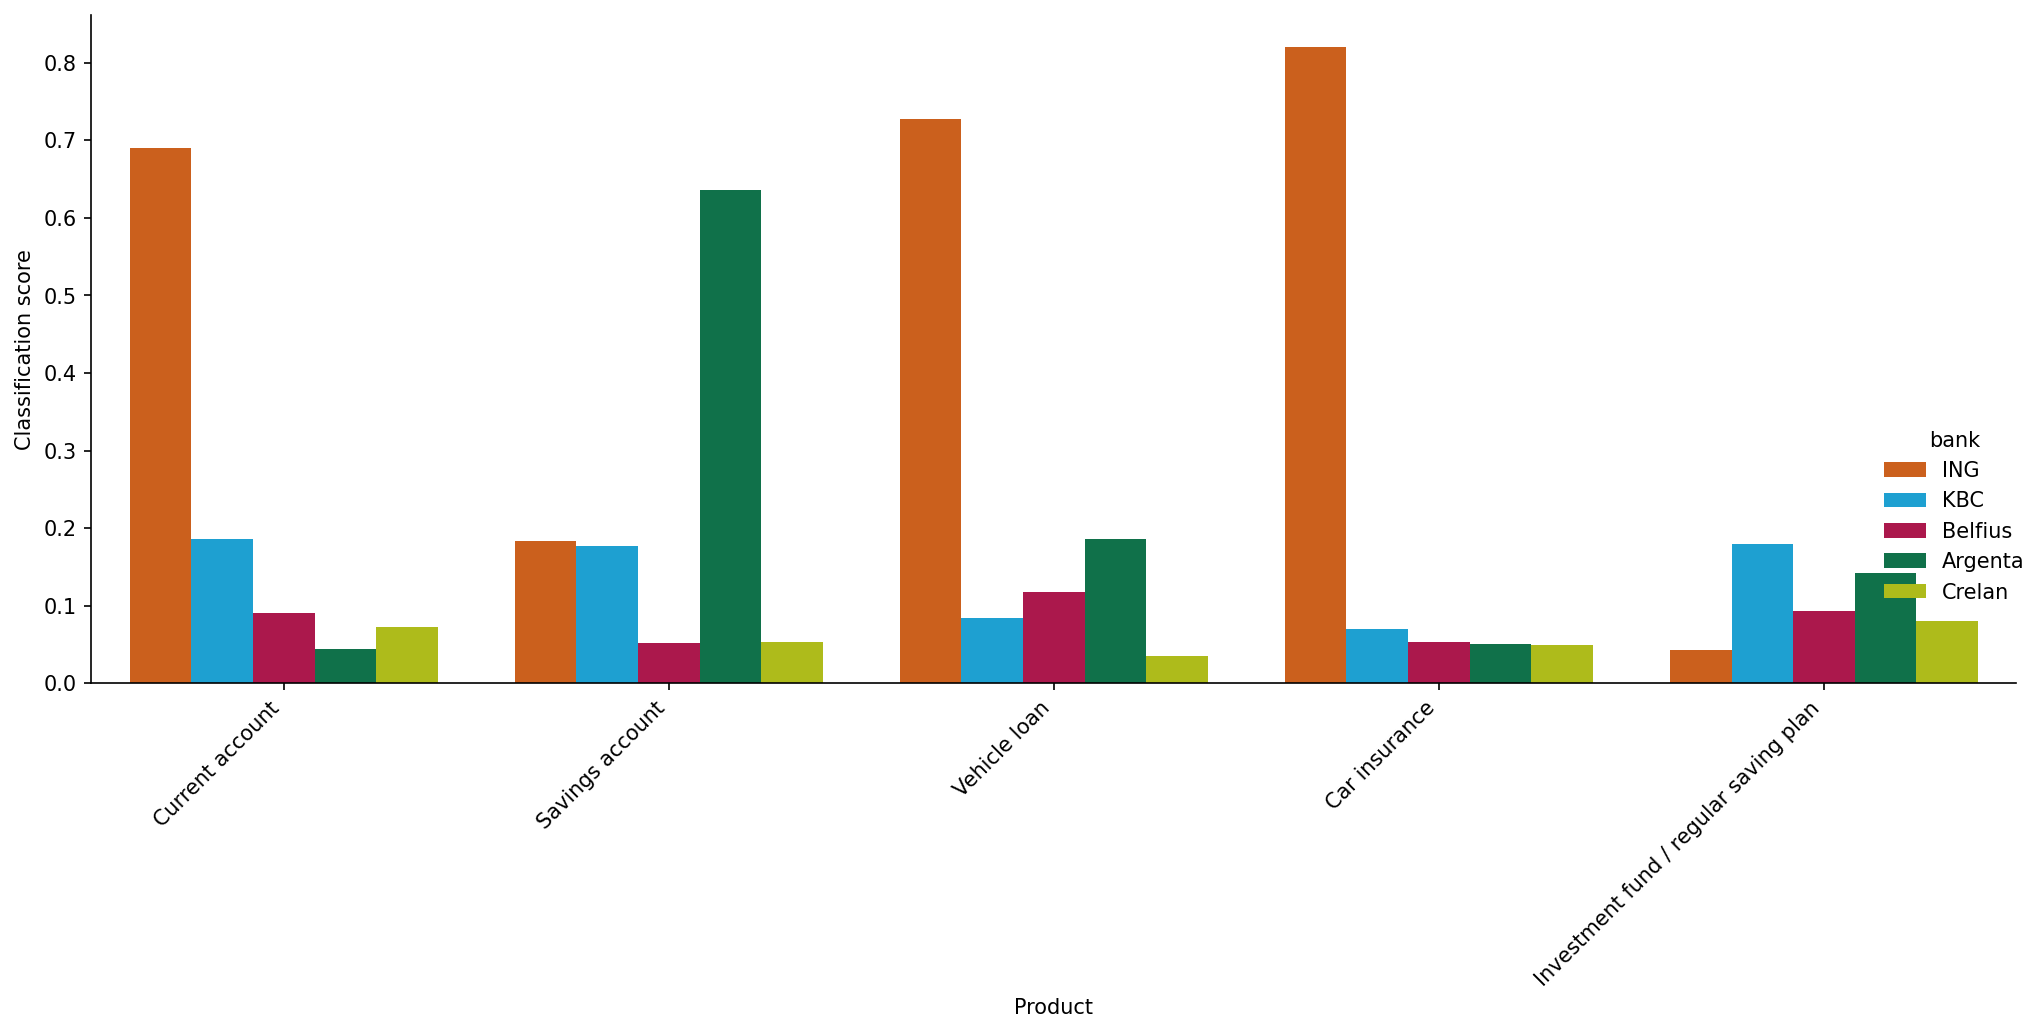
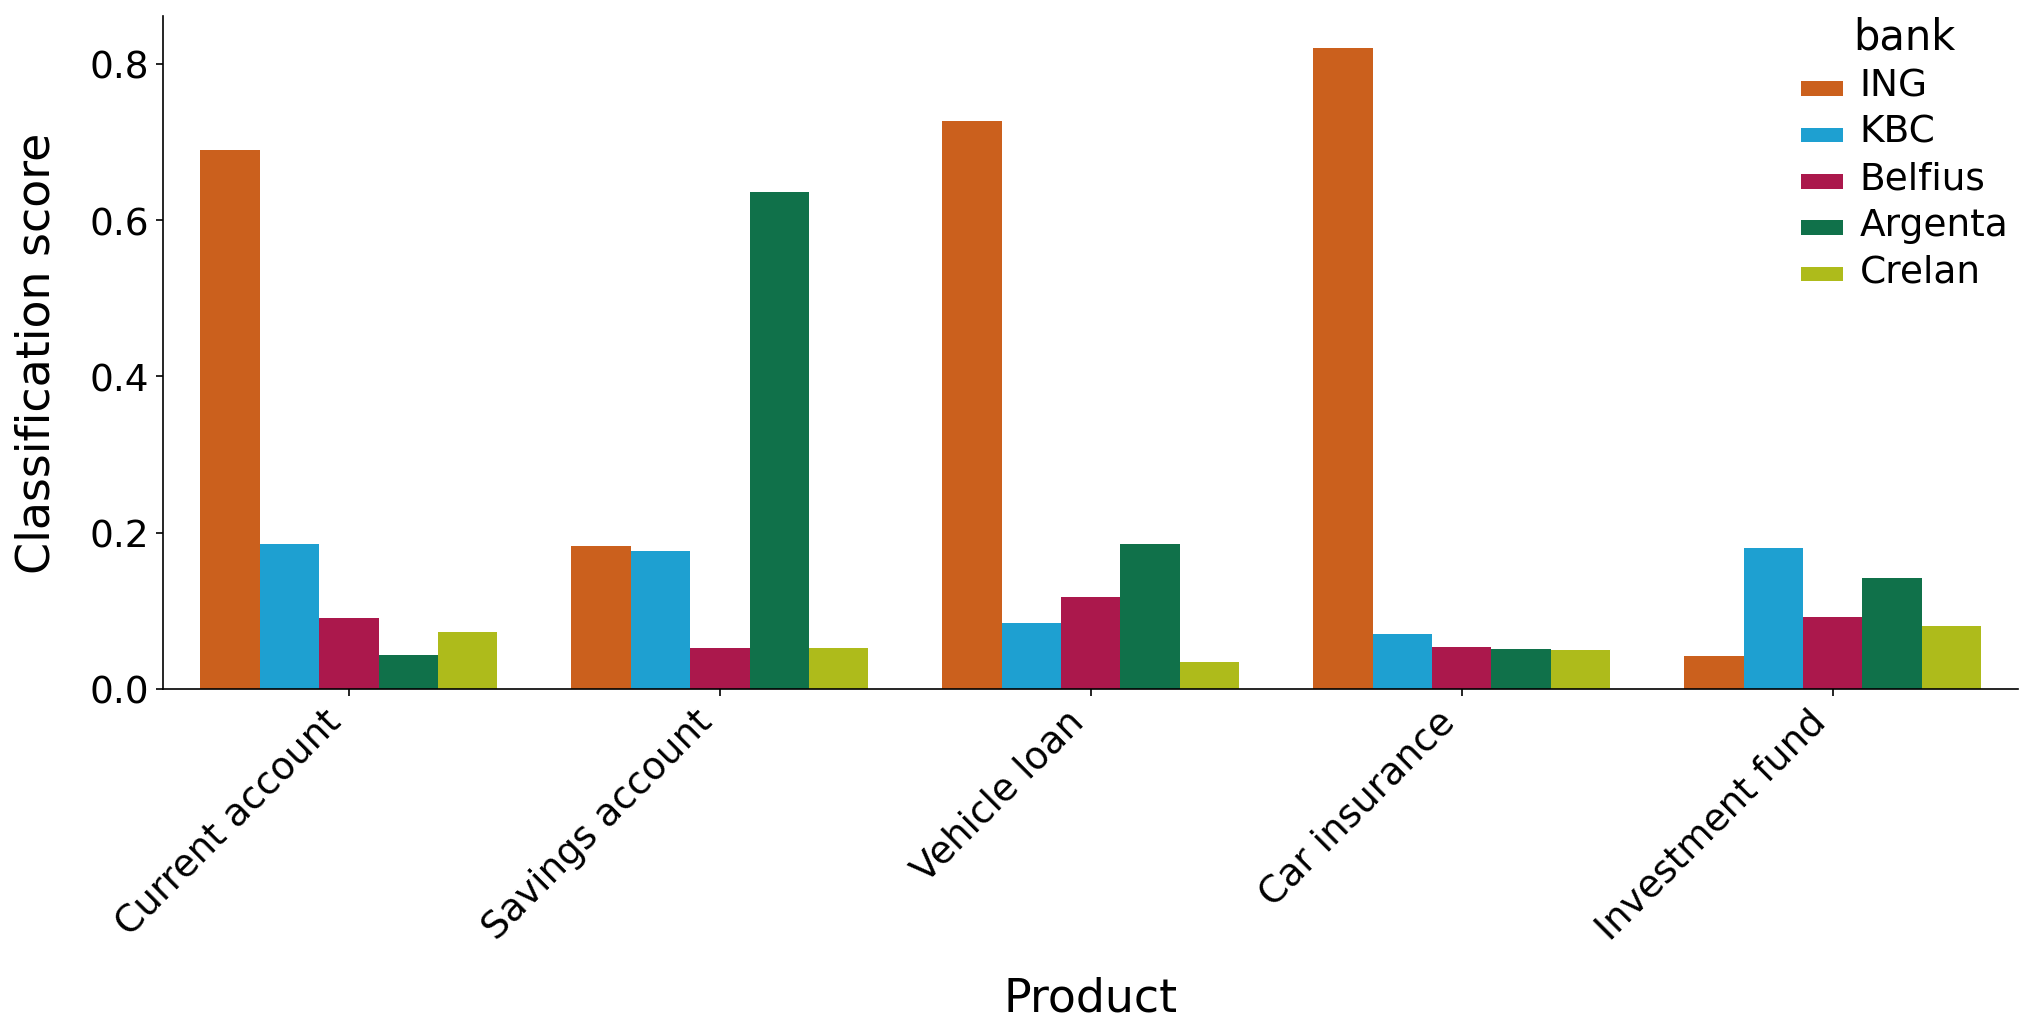
improve classification score plot

diff --git a/backend/app/categorize/zero-shot-classifier.py b/backend/app/categorize/zero-shot-classifier.py
@@ -404,6 +404,8 @@ def plot_categorize_score(
                 category = BANK_PRODUCT_CATEGORIES["en"][
                     language_categories.index(category)
                 ]
+            if category == "Investment fund / regular saving plan":
+                category = "Investment fund"
             records.append(
                 {
                     "product": category,
@@ -434,8 +436,19 @@ def plot_categorize_score(
         height=7,
         aspect=1.8,
     )
-    plot.set_axis_labels("Product", "Classification score")
-    plot.set_xticklabels(rotation=45, ha="right")
+    axis = plot.ax
+    axis.set_xlabel("Product", fontsize=22, labelpad=14)
+    axis.set_ylabel("Classification score", fontsize=22, labelpad=14)
+    axis.tick_params(axis="both", labelsize=18)
+    plot.set_xticklabels(rotation=45, ha="right", fontsize=18)
+
+    if plot._legend is not None:
+        plot._legend.set_loc("upper right")
+        plot._legend.set_bbox_to_anchor((0.99, 0.99))
+        plot._legend.get_title().set_fontsize(20)
+        for label in plot._legend.get_texts():
+            label.set_fontsize(18)
+
     plot.figure.tight_layout()
 
     if output_file is None:
